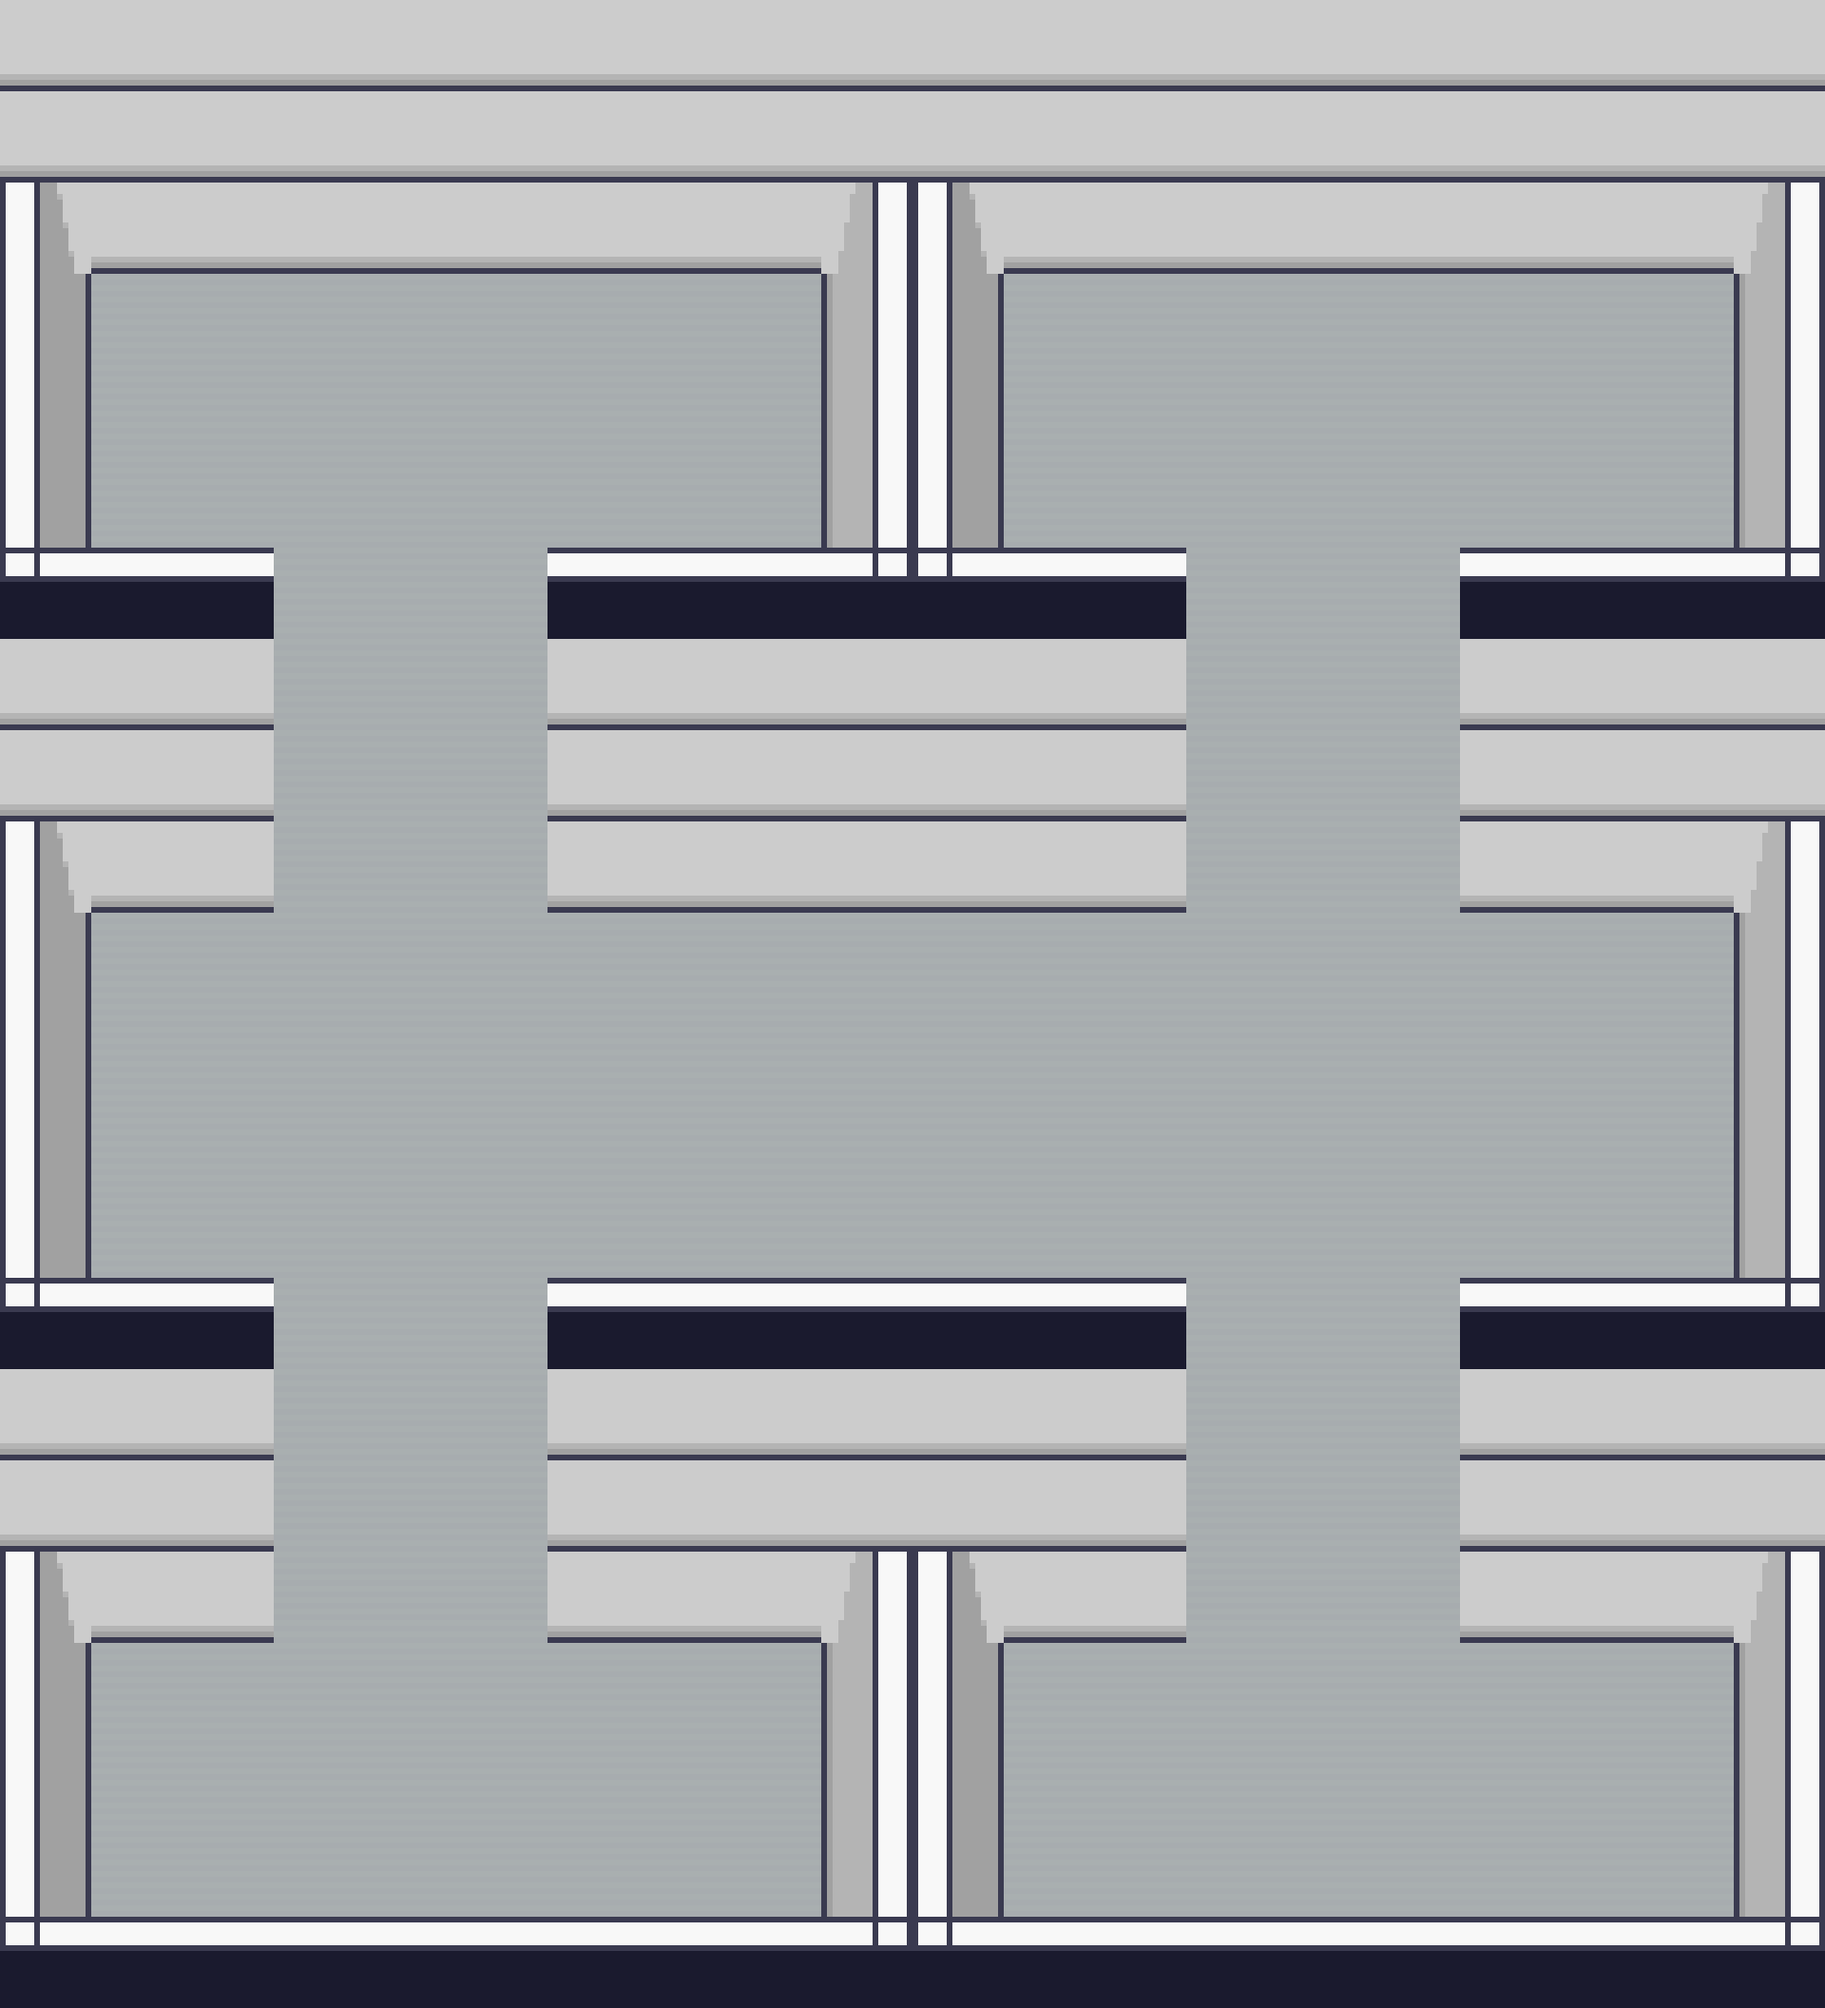
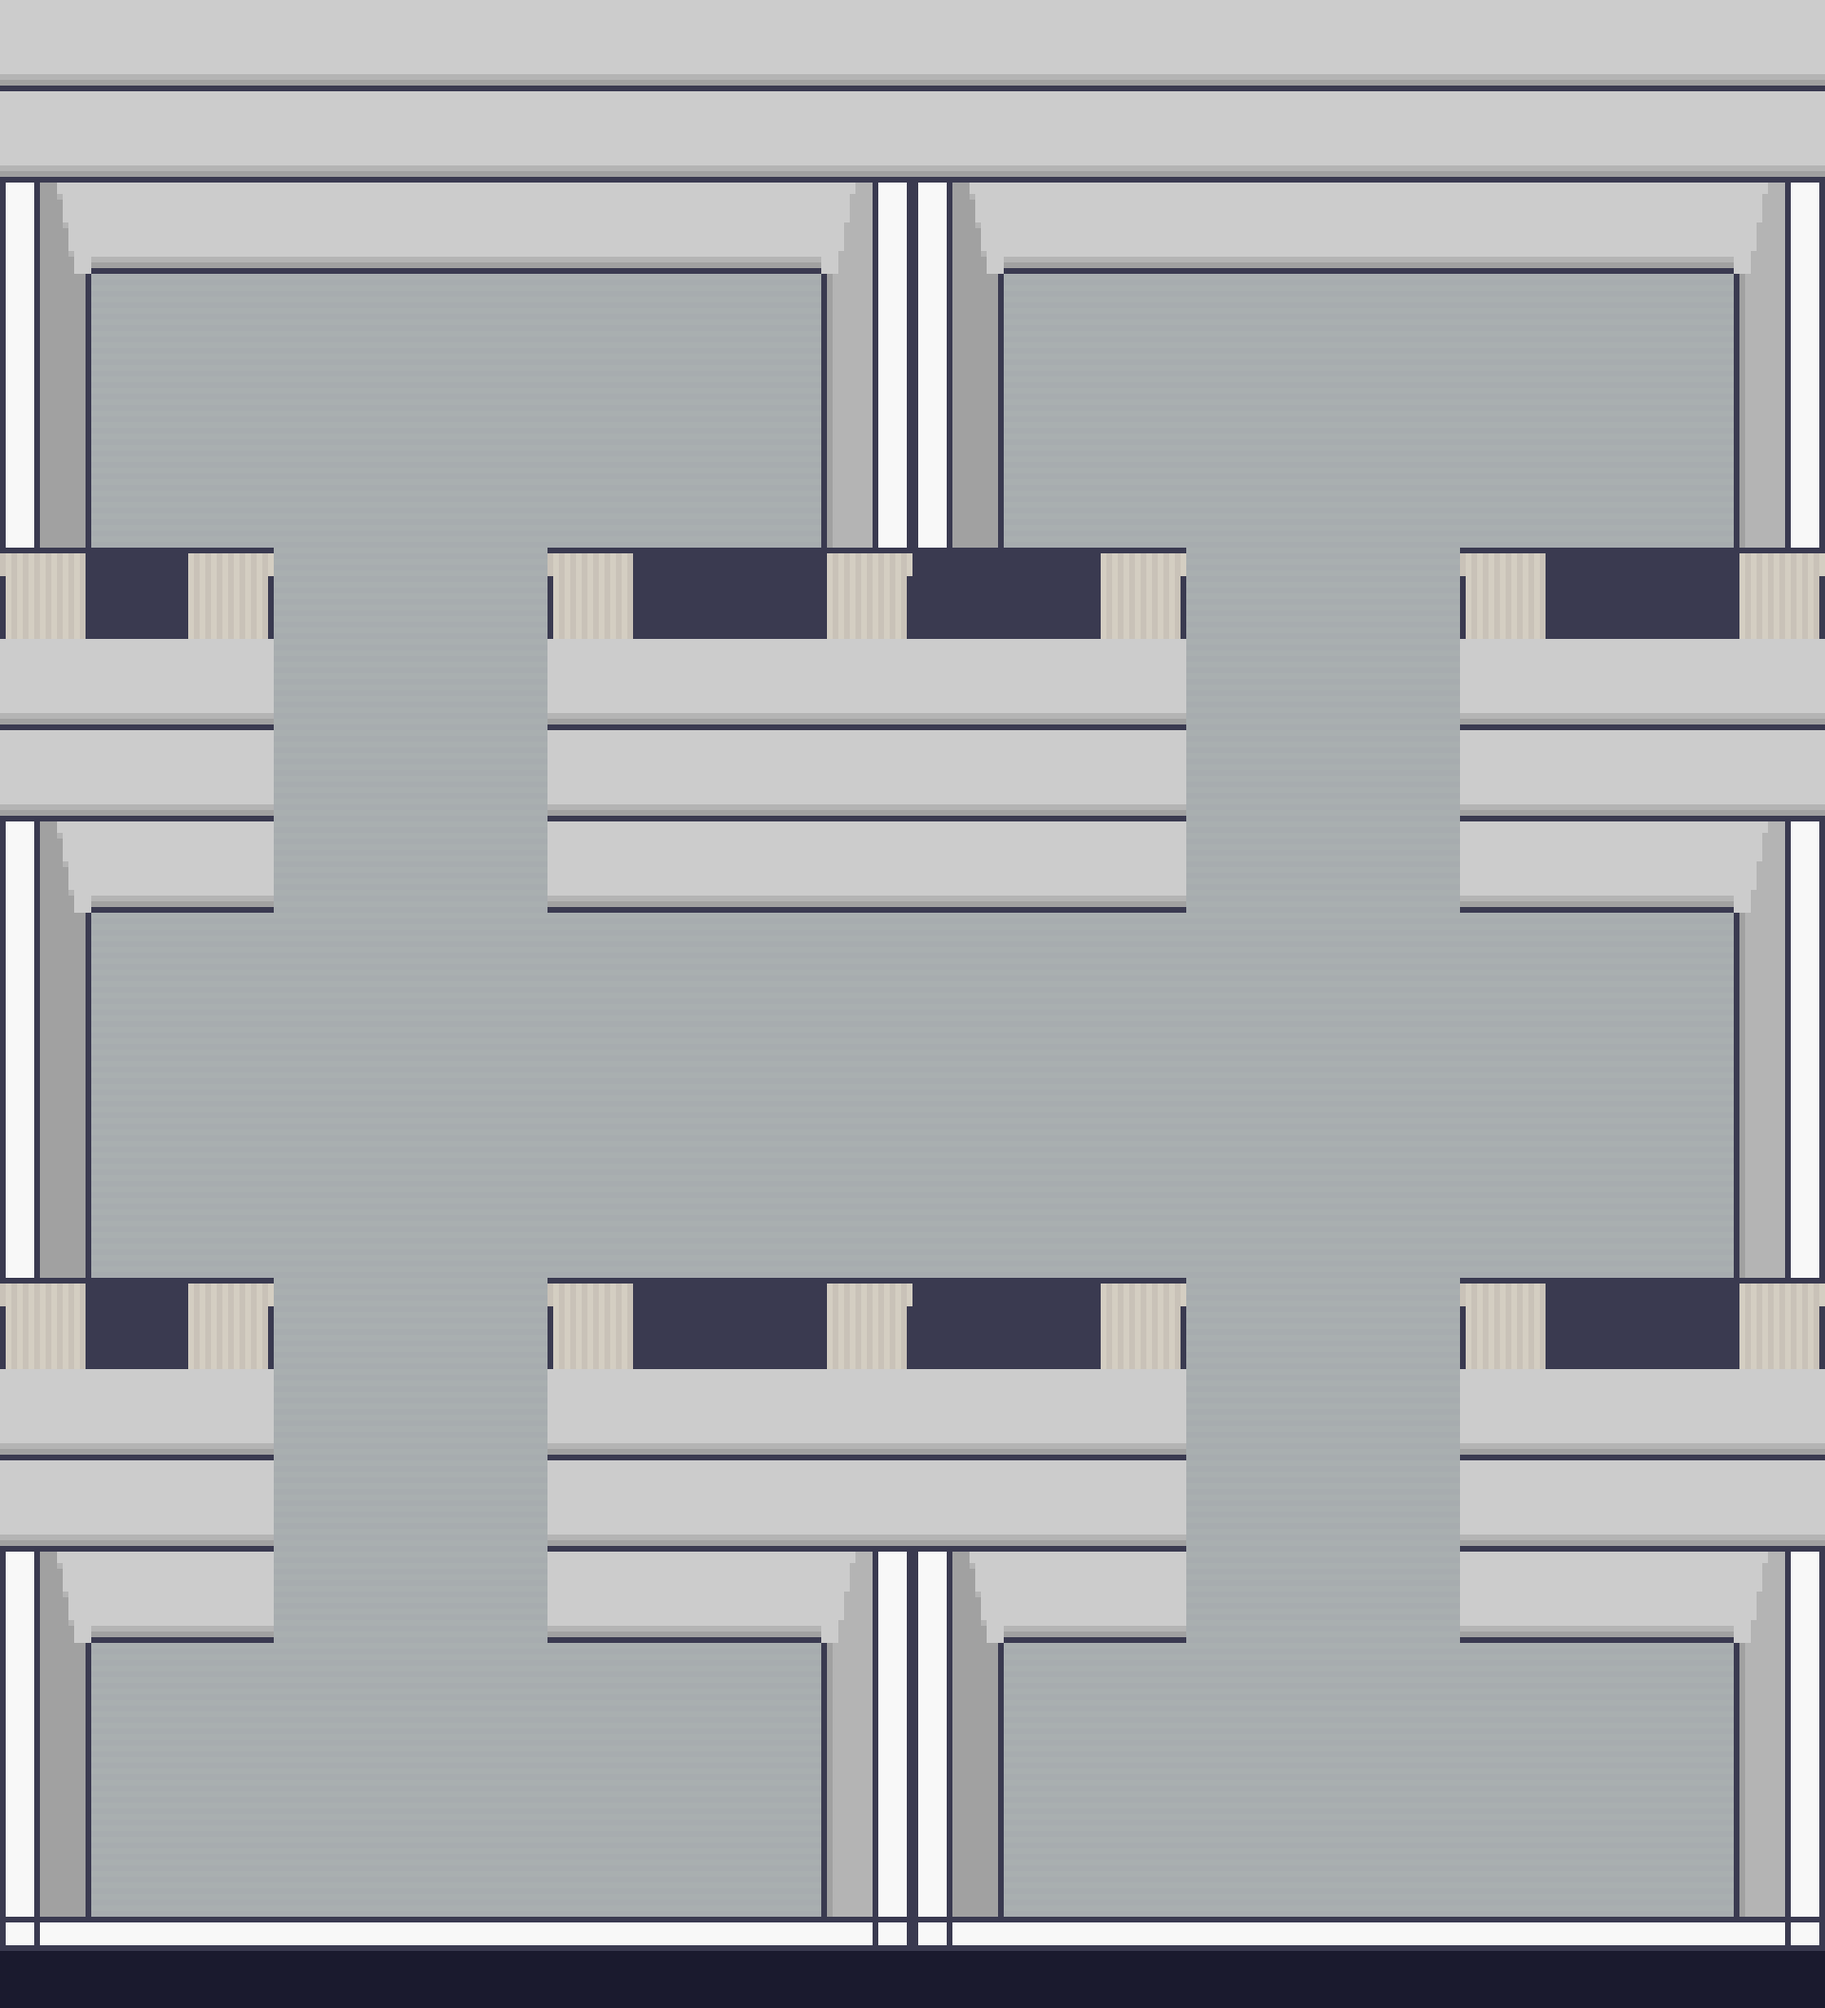
Glass wall partitions between rooms using borders tileset

diff --git a/src/scenes/HQScene.ts b/src/scenes/HQScene.ts
@@ -24,6 +24,7 @@ export class HQScene extends Phaser.Scene {
     this.load.image('floors', `${TILESET_BASE}/Room_Builder_Floors_32x32.png`);
     this.load.image('walls', `${TILESET_BASE}/Room_Builder_Walls_32x32.png`);
     this.load.image('walls3d', `${TILESET_BASE}/Room_Builder_3d_walls_32x32.png`);
+    this.load.image('borders', `${TILESET_BASE}/Room_Builder_borders_32x32.png`);
   }
 
   create() {
@@ -35,6 +36,8 @@ export class HQScene extends Phaser.Scene {
     map.createLayer('floor', [floorTs])!.setDepth(0);
     map.createLayer('walls', [wallTs])!.setDepth(1);
     map.createLayer('walls3d', [w3dTs])!.setDepth(2);
+    const bordersTs = map.addTilesetImage('borders', 'borders')!;
+    map.createLayer('glass', [bordersTs])!.setDepth(3);
 
     this.setupCamera();
   }
